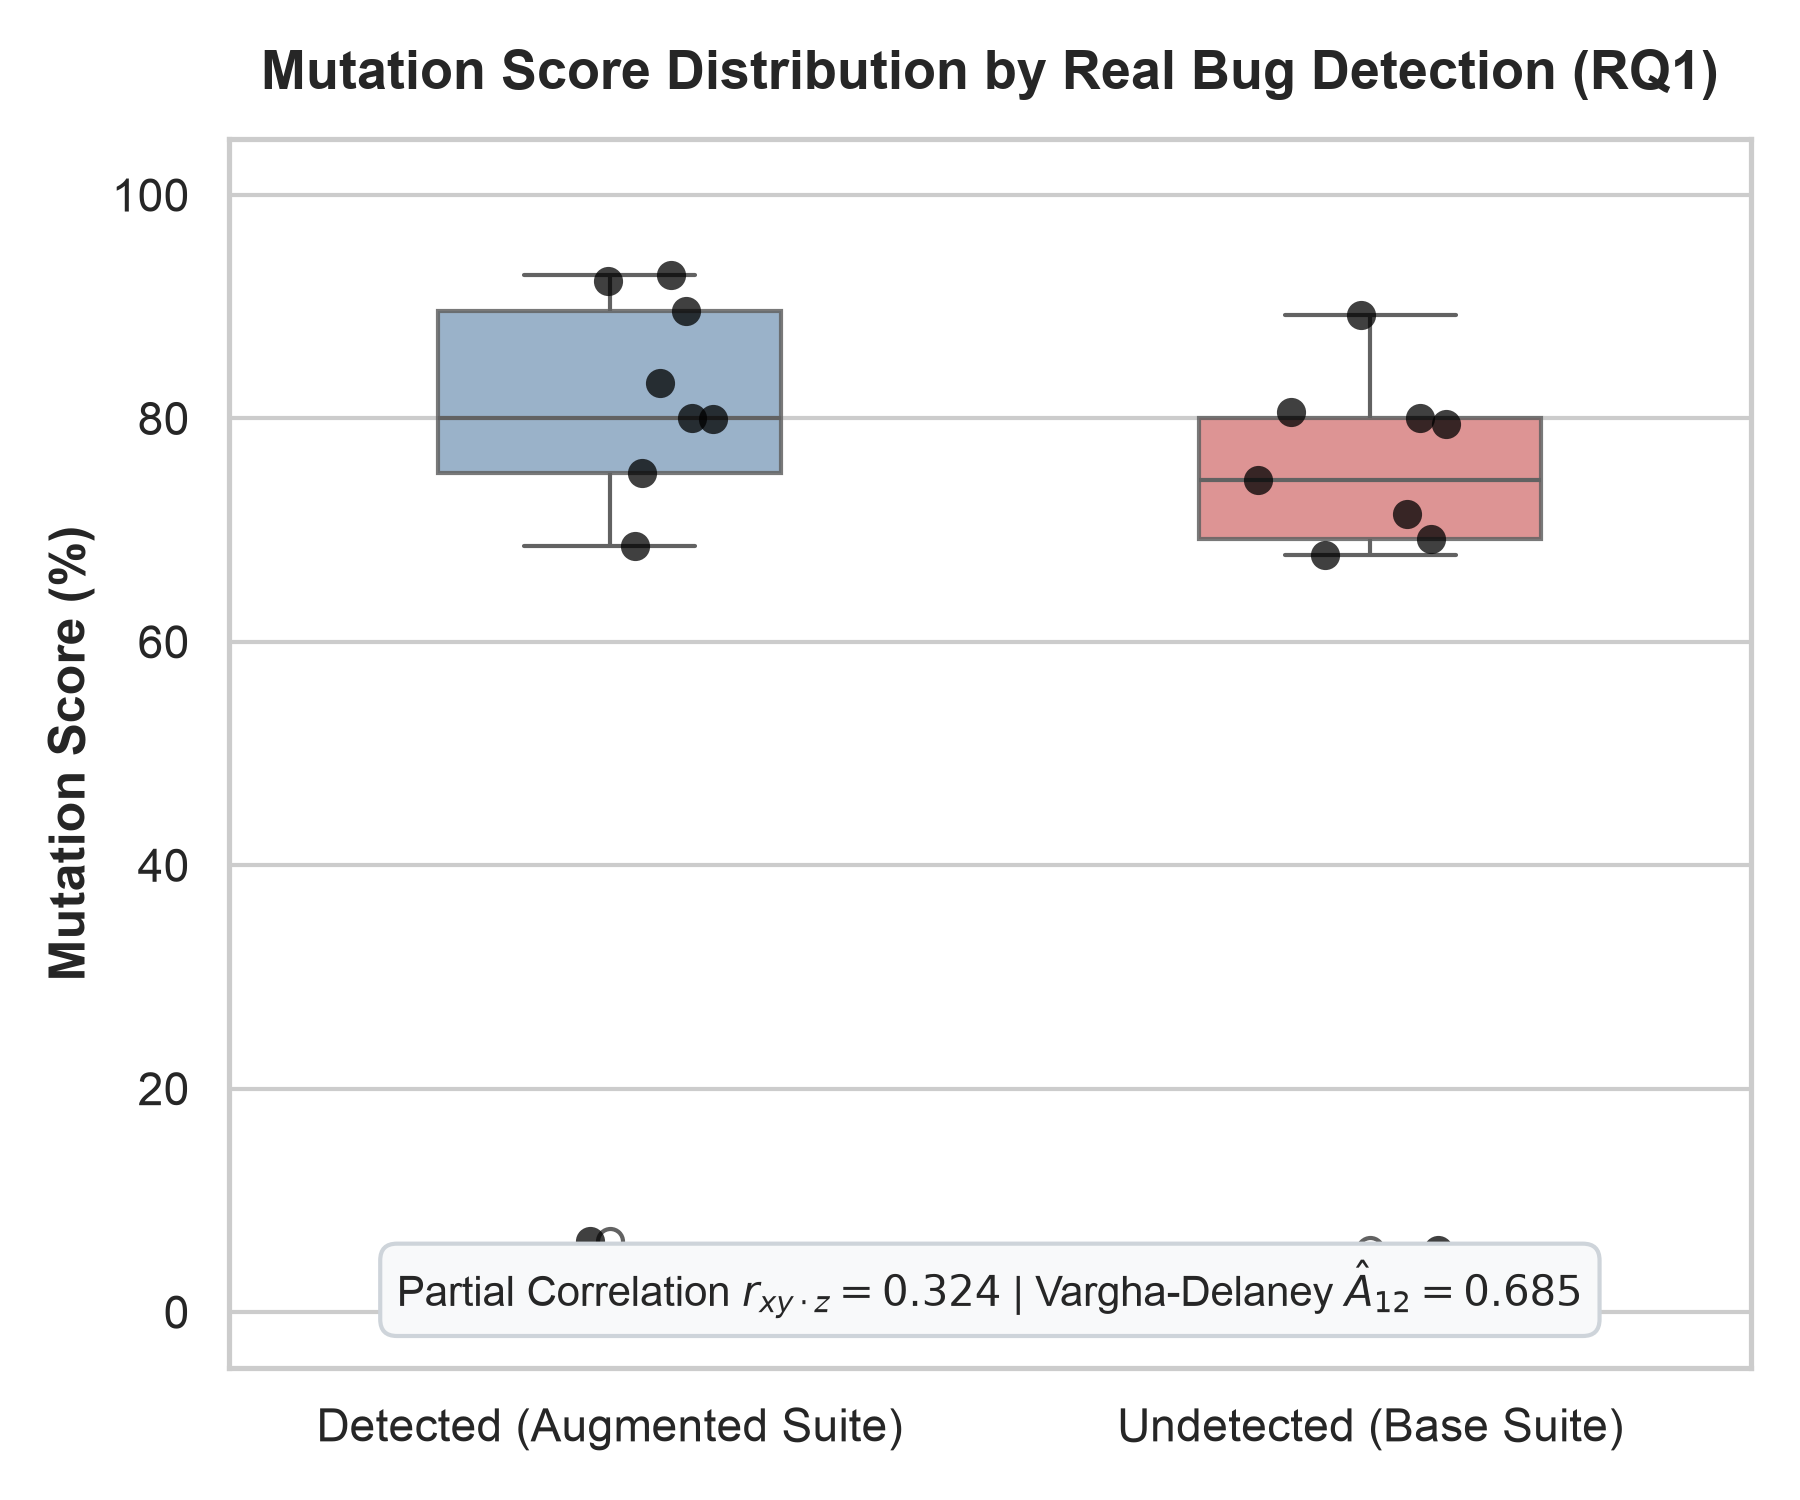
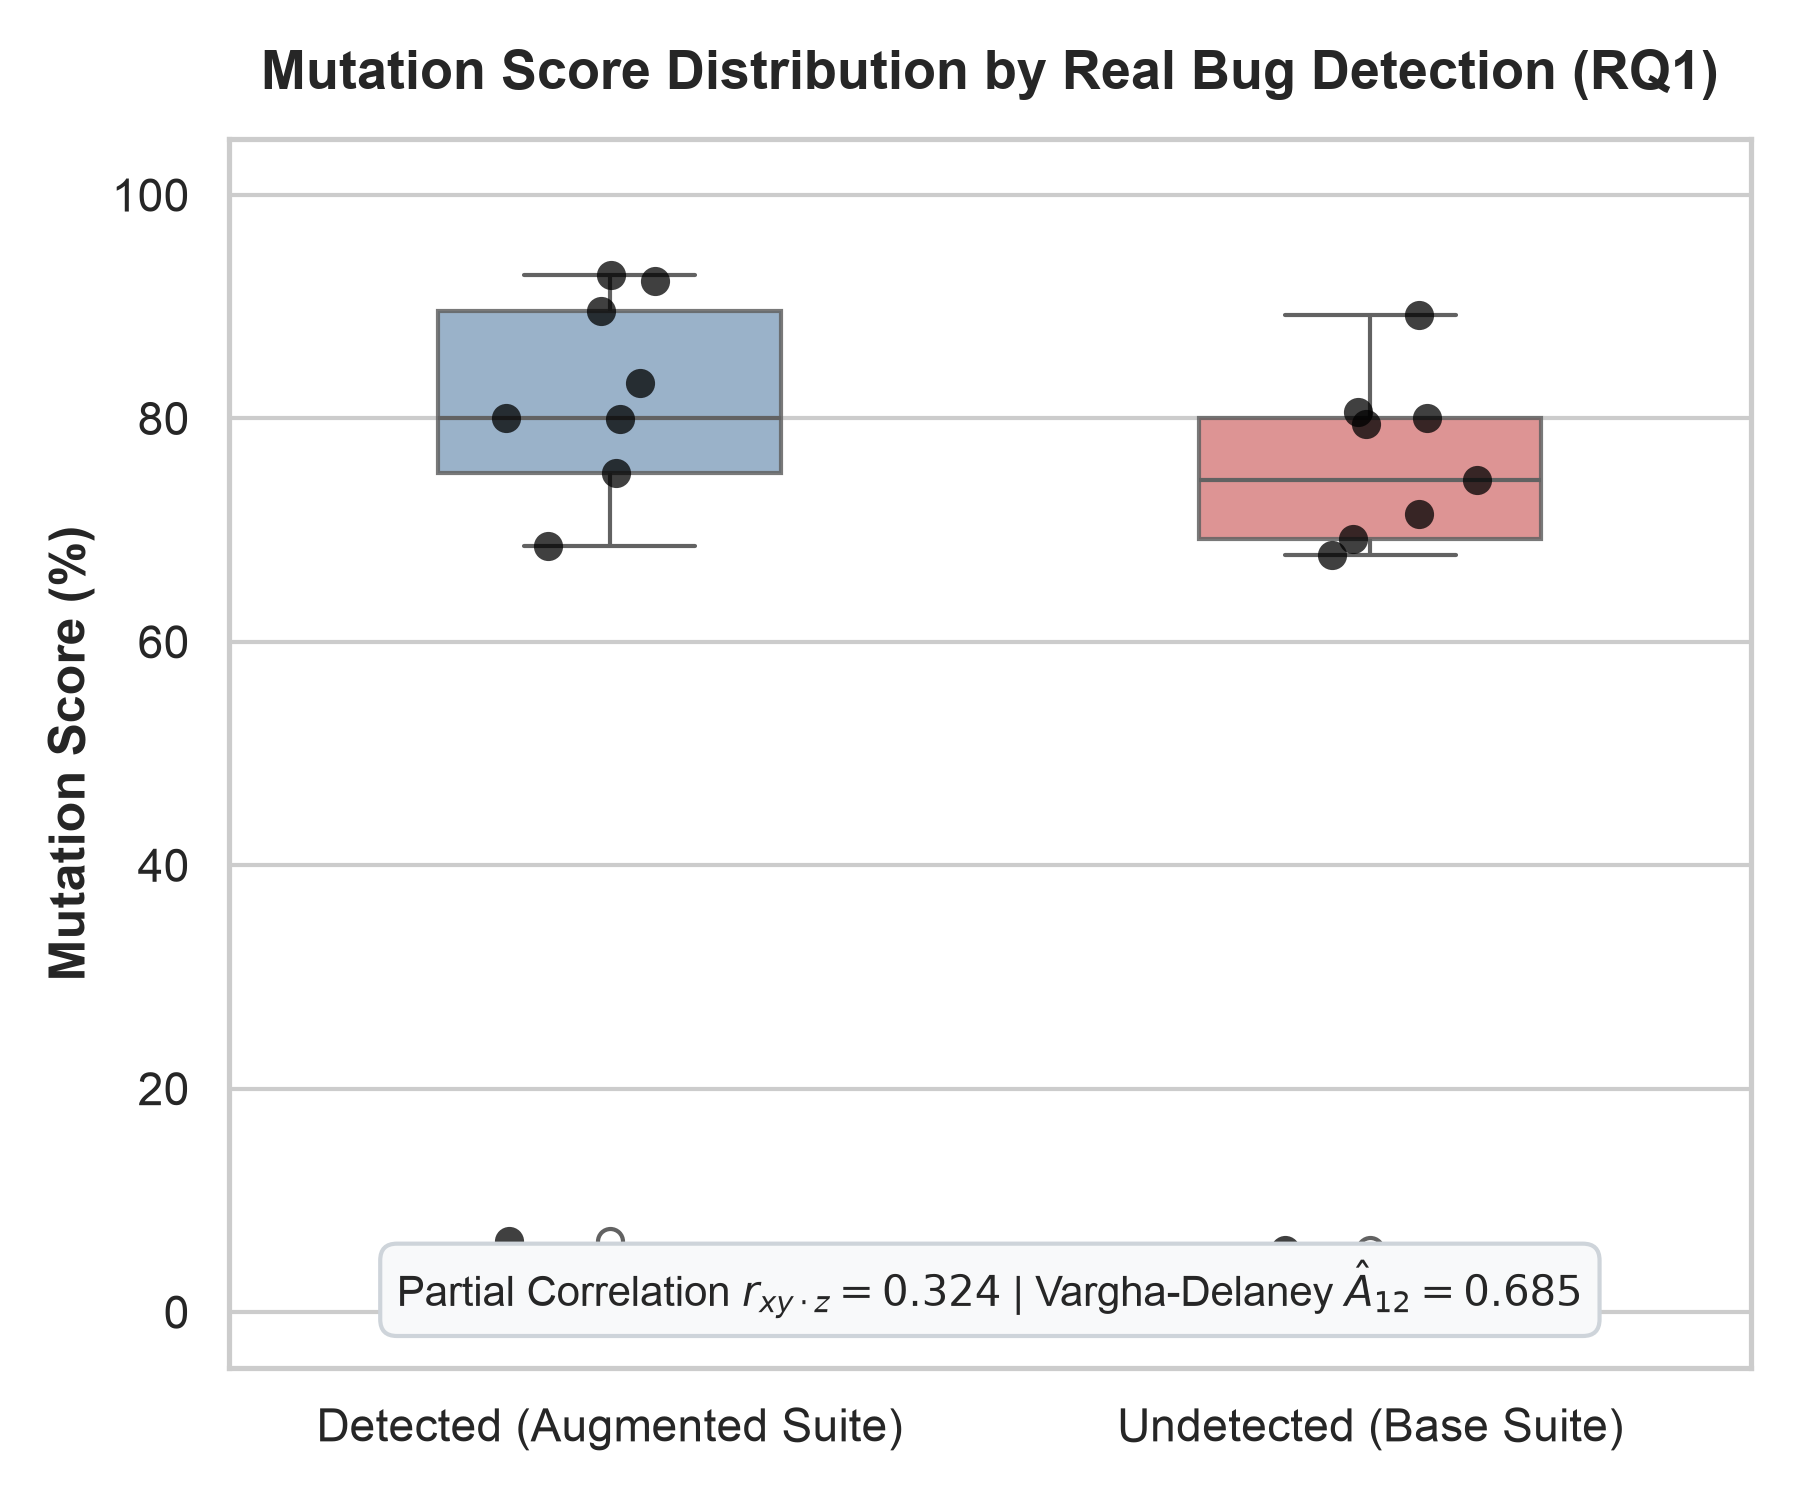
feat(Batch 2 - Day 5): add one-click reproduction script and GitHub Actions CI workflow

diff --git a/DAILY_LOG.md b/DAILY_LOG.md
@@ -154,8 +154,12 @@ Tracking daily progress, experimental findings, methodology updates, and decisio
   - Authored standard IEEEtran two-column conference paper in `paper/main.tex`.
   - Authored complete BibTeX references in `paper/references.bib` covering 2024–2026 literature.
   - Embedded empirical tables (RQ1 statistical summary, RQ2 mutator decomposition), formulas, and methodology descriptions.
+  - Committed & Pushed: `d5c0d9c`.
+- [x] **Executed Batch 2 (Automated Replication Script & CI):**
+  - Built `scripts/reproduce_all.sh` orchestrating unit test execution, statistical analysis, and 300 DPI chart generation.
+  - Verified local end-to-end execution.
+  - Authored GitHub Actions workflow `.github/workflows/reproduce_and_test.yml` to automatically verify replication on Ubuntu runners on every commit.
 
 ### Next Steps (Day 5 Batches)
-- Build automated replication script and CI workflow (Batch 2).
 - Create Zenodo archival configuration and bundle script (Batch 3).
 - Draft submission checklist and finalize Day 5 review (Batch 4).
